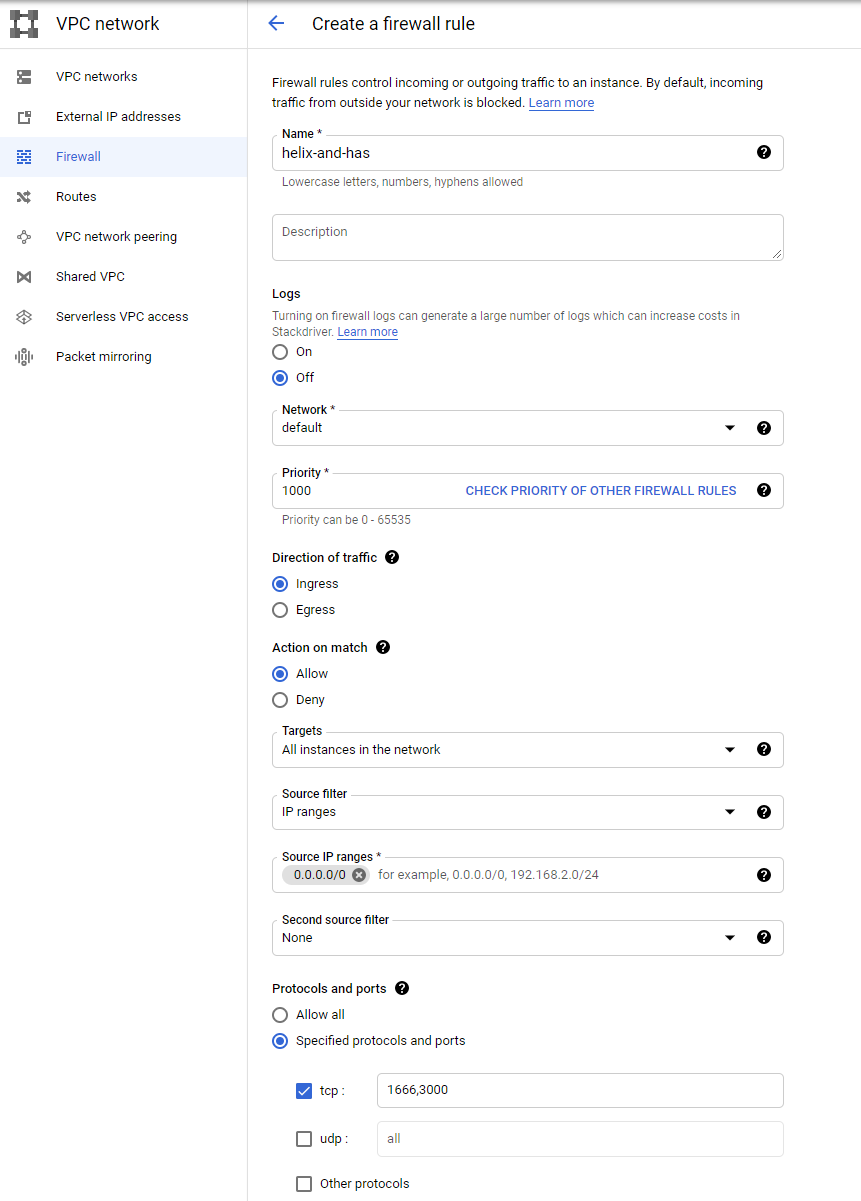
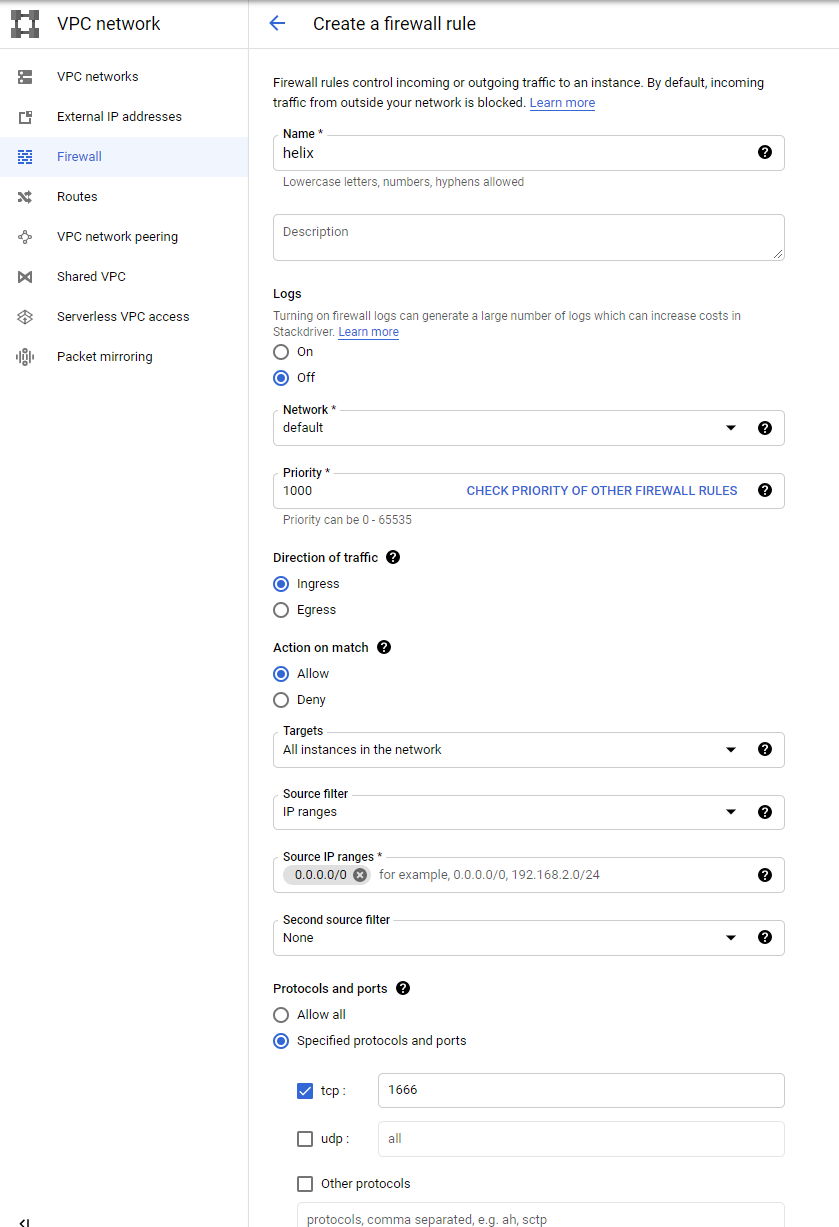
Tweaks and typo fixes

diff --git a/google_sso/README.md b/google_sso/README.md
@@ -70,6 +70,8 @@ Since we are not using a domain name but an IP address, we would need to use a s
 xip.io, that does the redirect. You can see the following post for more details:
 https://stackoverflow.com/questions/14238665/can-a-public-ip-address-be-used-as-google-oauth-redirect-uri
 
+**Note: In a production environment, you should always use your own domain name!**
+
 The two URIs you'll need to list are:
 
 -  https://VM_EXTERNAL_IP.xip.io:3000
@@ -96,8 +98,10 @@ To open up all VMs on your GCP network to incoming traffic on ports 1666 and 300
 
 ![Create Firewall](create_firewall.png)
 
-You can give your rule any name (e.g. "helix-and-has"). Select "All instances in the network"
-as targets, choose 0.0.0.0/0 as source IP ranges and specify TCP ports 1666,3000.
+You can give your rule any name (e.g. "helix"). Select "All instances in the network"
+as targets, choose 0.0.0.0/0 as source IP ranges and specify TCP ports 1666.
+
+**Repeat the same process for the HAS port 3000.**
 
 Note: While this rule is fine for testing, consider restricting them to specific VMs by using
 target tags.
@@ -121,7 +125,7 @@ In a nutshell:
 
 ```
 wget -qO - https://package.perforce.com/perforce.pubkey | sudo apt-key add -
-sudo sh -c "echo 'deb http://package.perforce.com/apt/ubuntu xenial release' > /etc/apt/sources.list.d/perforce.list"
+echo 'deb http://package.perforce.com/apt/ubuntu xenial release' | sudo tee /etc/apt/sources.list.d/perforce.list
 sudo apt-get update
 sudo apt-get install -y helix-p4d
 ```
@@ -193,7 +197,7 @@ Answer "Yes" to "Do you wish to continue?"
 To test that the server is up and running, you can navigate to https://VM_EXTERNAL_IP.xip.io:3000/.
 
 Please note that your browser may block this because the site is using a default self-signed
-TSL certificate. In Chrome, you can click on "Advanced" when this happens to proceed.
+TLS certificate. In Chrome, you can click on "Advanced" when this happens to proceed.
 
 **Do not use self-signed certificates in production!**
 
@@ -276,10 +280,10 @@ This guide has been written with the focus on quick demonstration and minimum pr
 However, a lot of shortcuts taken here should not be used in a production environment.
 Here is a list of important considerations:
 
-## TSL Certificates
+## TLS Certificates
 
-Both Helix Core and HAS ship with testing self-signed TSL certificates. These certificates should never
-be used in production. You would need to purchase TSL certificates from a certification authority
+Both Helix Core and HAS ship with testing self-signed TLS certificates. These certificates should never
+be used in production. You would need to purchase TLS certificates from a certification authority
 to replace those.
 
 ## Firwall and access
